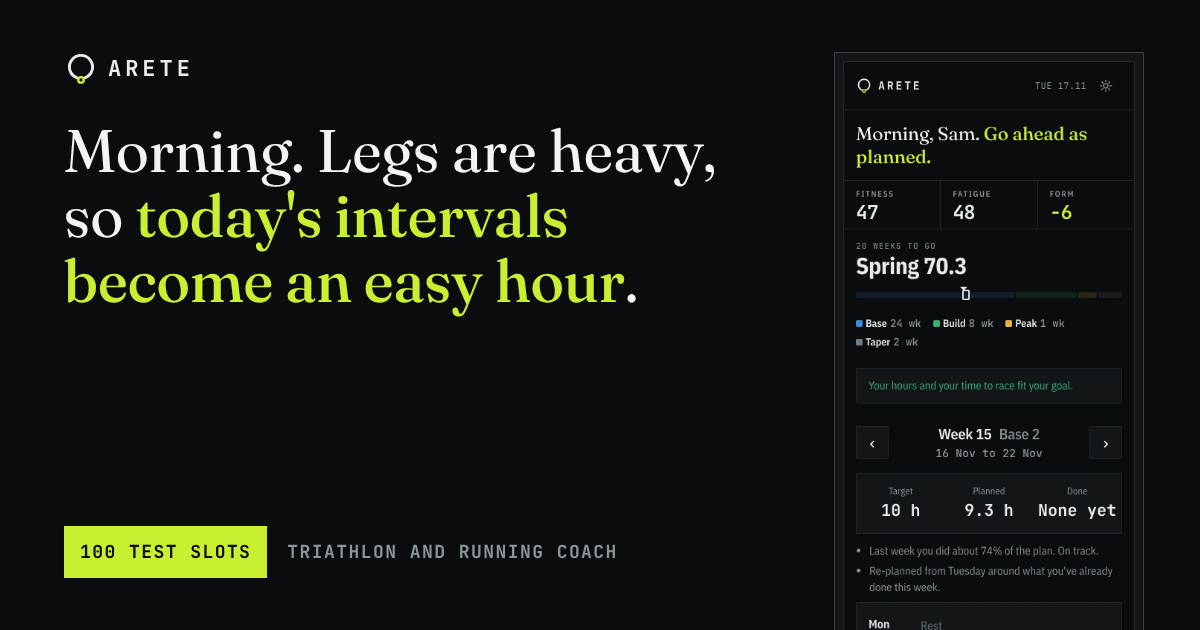
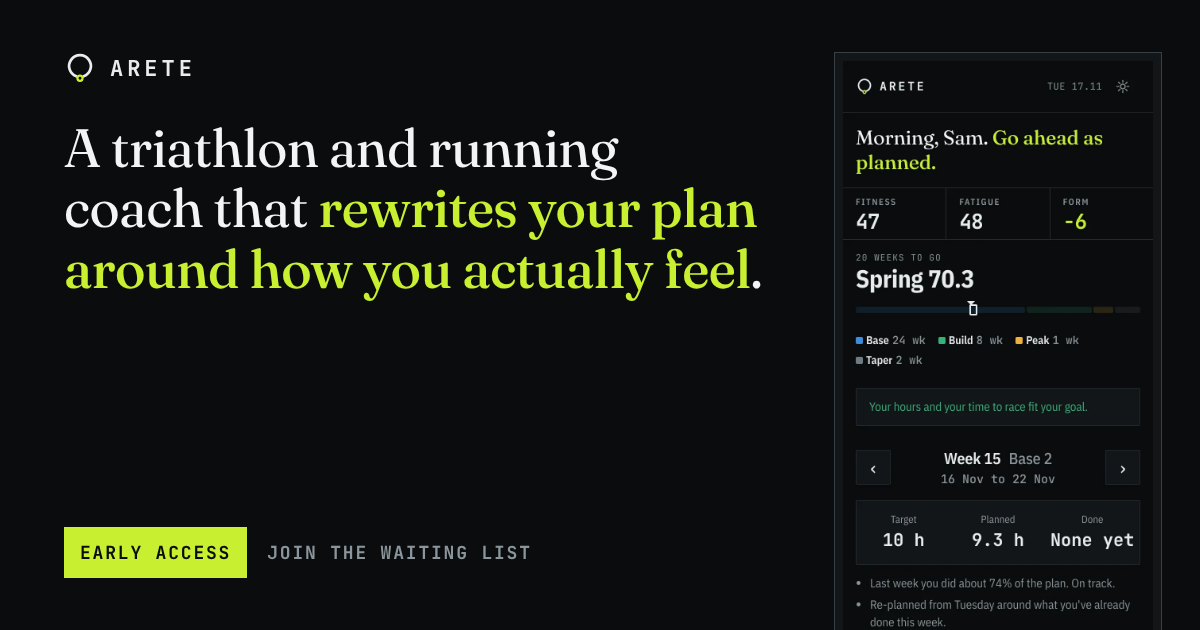
Early access and phased roadmap

diff --git a/index.html b/index.html
@@ -4,7 +4,7 @@
   <meta charset="utf-8" />
   <meta name="viewport" content="width=device-width, initial-scale=1, viewport-fit=cover" />
   <title>Arete · Coming soon</title>
-  <meta name="description" content="Arete is an adaptive coach for triathletes and runners. It plans your season back from race day and adjusts every session to how you slept, how your legs feel and the load you're carrying. 100 test slots." />
+  <meta name="description" content="Arete is an adaptive coach for triathletes and runners. It plans your season back from race day and adjusts every session to how you slept, how your legs feel and the load you're carrying. 100 early access spots." />
   <link rel="canonical" href="https://areteprograms.net/" />
   <meta name="theme-color" content="#0a0c0d" />
 
@@ -12,14 +12,14 @@
   <meta property="og:url" content="https://areteprograms.net/" />
   <meta property="og:site_name" content="Arete" />
   <meta property="og:title" content="Arete: a triathlon and running coach that rewrites your plan around how you actually feel" />
-  <meta property="og:description" content="An adaptive triathlon and running coach, built on the rules of a self coached top 0.1% amateur. 100 test slots. Join the waiting list." />
+  <meta property="og:description" content="An adaptive triathlon and running coach, built on the rules of a self coached top 0.1% amateur. 100 early access spots. Join the waiting list." />
   <meta property="og:image" content="https://areteprograms.net/assets/og.png" />
   <meta property="og:image:width" content="1200" />
   <meta property="og:image:height" content="630" />
-  <meta property="og:image:alt" content="Arete. Morning. Legs are heavy, so today's intervals become an easy hour." />
+  <meta property="og:image:alt" content="Arete: a triathlon and running coach that rewrites your plan around how you actually feel." />
   <meta name="twitter:card" content="summary_large_image" />
   <meta name="twitter:title" content="Arete: a triathlon and running coach that rewrites your plan around how you actually feel" />
-  <meta name="twitter:description" content="An adaptive triathlon and running coach. 100 test slots. Join the waiting list." />
+  <meta name="twitter:description" content="An adaptive triathlon and running coach. 100 early access spots. Join the waiting list." />
   <meta name="twitter:image" content="https://areteprograms.net/assets/og.png" />
 
   <link rel="icon" href="assets/favicon.svg" type="image/svg+xml" />
@@ -66,7 +66,7 @@
 
       <div class="slots" id="slots" aria-live="polite">
         <div class="slots-text">
-          <span class="label">Test slots</span>
+          <span class="label">Early access spots</span>
           <span class="slots-count"><b class="num" id="slots-left">100</b> of <span class="num">100</span> left</span>
         </div>
         <div class="slots-bar" id="slots-bar" aria-hidden="true"></div>
@@ -74,7 +74,7 @@
 
       <div class="cta-row">
         <a class="btn" href="#join">Join the waiting list</a>
-        <span class="cta-note">Free for the first 100 test athletes.</span>
+        <span class="cta-note">The first 100 on the list get in first.</span>
       </div>
     </section>
 
@@ -185,32 +185,22 @@
       <header class="section-head">
         <p class="label">Roadmap</p>
         <h2 id="road-h">What happens next.</h2>
-        <p class="section-lede">Counted in days from today. Everyone on the waiting list hears about each step first.</p>
+        <p class="section-lede">Three phases. Everyone on the waiting list hears about each one first.</p>
       </header>
 
-      <div class="track" aria-hidden="true">
-        <div class="track-bar"><span class="track-now" id="track-now"></span></div>
-        <div class="track-marks" id="track-marks"></div>
-      </div>
-
-      <ol class="milestones" id="milestones">
-        <li data-day="30">
-          <p class="m-when"><span class="num m-days">D−30</span><span class="m-date"></span></p>
-          <h3>Test athletes</h3>
-          <p>The first 100 people on the waiting list get an invite and full access, free, while we test and tune the coach.</p>
+      <ol class="milestones phases">
+        <li class="is-next">
+          <p class="m-when"><span class="num m-days">Phase 1</span><span class="m-date">Up next</span></p>
+          <h3>Early access</h3>
+          <p>Arete opens to the waiting list, in the order people joined. You get an invite by email and start training with the coach before anyone else.</p>
         </li>
-        <li data-day="90">
-          <p class="m-when"><span class="num m-days">D−90</span><span class="m-date"></span></p>
-          <h3>Early adopters</h3>
-          <p>Paid early access opens to everyone on the waiting list, before the public.</p>
-        </li>
-        <li data-day="120">
-          <p class="m-when"><span class="num m-days">D−120</span><span class="m-date"></span></p>
+        <li>
+          <p class="m-when"><span class="num m-days">Phase 2</span><span class="m-date">Later</span></p>
           <h3>Mobile app</h3>
           <p>Arete on iPhone and Android, with the same coach and your same plan.</p>
         </li>
-        <li data-day="150">
-          <p class="m-when"><span class="num m-days">D−150</span><span class="m-date"></span></p>
+        <li>
+          <p class="m-when"><span class="num m-days">Phase 3</span><span class="m-date">Later</span></p>
           <h3>Open to everyone</h3>
           <p>Anyone can sign up.</p>
         </li>
@@ -244,9 +234,9 @@
     <section class="join wrap" id="join" aria-labelledby="join-h" tabindex="-1">
       <div class="join-copy">
         <p class="label">Waiting list</p>
-        <h2 id="join-h">Claim a test slot.</h2>
-        <p>100 slots, first come first served. If they're gone you stay on the list, next in line when a slot frees up and first to hear about early access.</p>
-        <p class="muted">You get one email confirming your place, then only news about the test and the launch. Every email has a link that takes you off the list and deletes your details.</p>
+        <h2 id="join-h">Get early access.</h2>
+        <p>100 early access spots, first come first served. If they're gone you stay on the list, next in line when a spot opens up.</p>
+        <p class="muted">You get one email confirming your place, then only news about early access and the launch. Every email has a link that takes you off the list and deletes your details.</p>
       </div>
 
       <form class="join-form" id="join-form" novalidate>
@@ -280,7 +270,7 @@
         </div>
         <label class="consent" for="f-consent">
           <input id="f-consent" name="consent" type="checkbox" value="yes" required />
-          <span>Email me about the test and the launch. I've read the <a href="/privacy">privacy policy</a>.</span>
+          <span>Email me about early access and the launch. I've read the <a href="/privacy">privacy policy</a>.</span>
         </label>
         <p class="form-error" id="form-error" role="alert" hidden></p>
         <button type="submit" class="btn btn-full" id="join-submit">Join the waiting list</button>

diff --git a/main.js b/main.js
@@ -3,7 +3,6 @@
 // Settings you may change:
 //   VIDEO_ID       the YouTube id of the 5 minute video (the part after
 //                  "watch?v=" or "youtu.be/"). Empty shows "coming soon".
-//   ROADMAP_START  the day the roadmap counts from (YYYY-MM-DD).
 //
 // Sign ups go to this site's own backend (netlify/functions/waitlist.mjs),
 // which keeps them in Netlify Blobs. Nothing here talks to the Arete app.
@@ -13,7 +12,6 @@
 // up came from.
 
 const VIDEO_ID = ''
-const ROADMAP_START = '2026-11-17'
 const API = '/api'
 const SLOTS = 100
 
@@ -38,7 +36,7 @@ $('theme-toggle').addEventListener('click', () => {
 })
 setTheme(document.documentElement.dataset.theme === 'light' ? 'light' : 'dark')
 
-// --- Test slots left ----------------------------------------------------------
+// --- Early access spots left ----------------------------------------------------------
 
 function drawSlots(taken) {
   const bar = $('slots-bar')
@@ -58,37 +56,6 @@ fetch(`${API}/waitlist/status`)
     if (s) drawSlots(Math.min(SLOTS, s.taken))
   })
   .catch(() => {})
-
-// --- Roadmap ------------------------------------------------------------------
-
-const DAY = 86400000
-const start = new Date(`${ROADMAP_START}T00:00:00`)
-const today = new Date()
-today.setHours(0, 0, 0, 0)
-const elapsed = Math.max(0, Math.round((today - start) / DAY))
-const SPAN = 150
-
-function fmt(d) {
-  return d.toLocaleDateString('en-GB', { day: 'numeric', month: 'short', year: 'numeric' })
-}
-
-document.querySelectorAll('#milestones li').forEach((li) => {
-  const day = Number(li.dataset.day)
-  const when = new Date(start.getTime() + day * DAY)
-  const left = day - elapsed
-  li.querySelector('.m-days').textContent = left > 1 ? `In ${left} days` : left === 1 ? 'Tomorrow' : left === 0 ? 'Today' : 'Open now'
-  li.querySelector('.m-date').textContent = fmt(when)
-})
-
-$('track-now').style.width = `${Math.min(100, (elapsed / SPAN) * 100)}%`
-const marks = [[0, 'Today'], [30, 'Test'], [90, 'Early access'], [120, 'App'], [150, 'Public']]
-marks.forEach(([d, name], i) => {
-  const s = document.createElement('span')
-  s.style.left = `${(d / SPAN) * 100}%`
-  s.textContent = i === 0 ? name : `D${d}`
-  s.title = name
-  $('track-marks').appendChild(s)
-})
 
 // --- Video ----------------------------------------------------------------------
 
@@ -142,7 +109,7 @@ form.addEventListener('submit', async (e) => {
   const email = $('f-email')
   if (!name.value.trim()) return showError('Add your name.', name)
   if (!/^[^\s@]+@[^\s@]+\.[^\s@]+$/.test(email.value.trim())) return showError("That doesn't look like an email address.", email)
-  if (!$('f-consent').checked) return showError('Tick the box so I can email you about the test.', $('f-consent'))
+  if (!$('f-consent').checked) return showError('Tick the box so I can email you about early access.', $('f-consent'))
 
   const data = new FormData(form)
   const button = $('join-submit')
@@ -180,11 +147,11 @@ function joined(res, first) {
   const note = $('joined-note')
   const who = first ? `${first}, you're` : "You're"
   if (res.has_slot) {
-    line.innerHTML = `${res.already ? 'Already on the list. ' : ''}${who} number <mark>${res.position} of ${res.slots}</mark>. That's a test slot.`
-    note.textContent = "Check your inbox for the confirmation. When testing opens you'll get an invite code by email."
+    line.innerHTML = `${res.already ? 'Already on the list. ' : ''}${who} number <mark>${res.position} of ${res.slots}</mark>. That's an early access spot.`
+    note.textContent = "Check your inbox for the confirmation. When early access opens you'll get an invite by email."
   } else {
     line.innerHTML = `${res.already ? 'Already on the list. ' : ''}${who} number <mark>${res.position}</mark> on the list.`
-    note.textContent = `The ${res.slots} test slots are taken, so you're next in line if one frees up, and first to hear about early access. Check your inbox for the confirmation.`
+    note.textContent = `The ${res.slots} early access spots are taken, so you're next in line when one opens up. Check your inbox for the confirmation.`
   }
   form.hidden = true
   $('joined').hidden = false

diff --git a/styles.css b/styles.css
@@ -706,70 +706,6 @@ body::before {
   padding-block: 80px 72px;
 }
 
-.track {
-  position: relative;
-  margin: 0 0 28px;
-}
-
-.track-bar {
-  position: relative;
-  height: 10px;
-  background: repeating-linear-gradient(90deg, var(--line) 0 calc(100% / 30 - 2px), transparent calc(100% / 30 - 2px) calc(100% / 30));
-}
-
-.track-now {
-  position: absolute;
-  left: 0;
-  top: 0;
-  bottom: 0;
-  width: 0;
-  background: var(--rule);
-}
-
-.track-marks {
-  position: relative;
-  height: 26px;
-  font-family: var(--mono);
-  font-size: 11px;
-  color: var(--muted);
-}
-
-.track-marks span {
-  position: absolute;
-  top: 0;
-  transform: translateX(-50%);
-  padding-top: 8px;
-  white-space: nowrap;
-}
-
-.track-marks span::before {
-  content: '';
-  position: absolute;
-  left: 50%;
-  top: -14px;
-  width: 2px;
-  height: 18px;
-  background: var(--text);
-}
-
-.track-marks span:first-child {
-  transform: none;
-}
-
-.track-marks span:first-child::before {
-  left: 0;
-  background: var(--rule);
-}
-
-.track-marks span:last-child {
-  transform: translateX(-100%);
-}
-
-.track-marks span:last-child::before {
-  left: auto;
-  right: 0;
-}
-
 .milestones {
   display: grid;
   grid-template-columns: minmax(0, 1fr);
@@ -781,15 +717,9 @@ body::before {
   border: 1px solid var(--line);
 }
 
-@media (min-width: 640px) {
+@media (min-width: 720px) {
   .milestones {
-    grid-template-columns: repeat(2, minmax(0, 1fr));
-  }
-}
-
-@media (min-width: 1000px) {
-  .milestones {
-    grid-template-columns: repeat(4, minmax(0, 1fr));
+    grid-template-columns: repeat(3, minmax(0, 1fr));
   }
 }
 
@@ -801,8 +731,12 @@ body::before {
   background: var(--surface);
 }
 
-.milestones li:first-child {
+.milestones li.is-next {
   box-shadow: inset 0 3px 0 var(--rule);
+}
+
+.milestones li:not(.is-next) .m-days {
+  color: var(--muted);
 }
 
 .m-when {

diff --git a/privacy.html b/privacy.html
@@ -36,7 +36,7 @@
     </ul>
 
     <h2>What we use it for</h2>
-    <p>To give out the 100 test slots in the order people joined, and to email you about the test and the launch. Nothing else. We don't sell it, share it or use it for advertising. The basis is your consent, given with the tick box on the form.</p>
+    <p>To give out the 100 early access spots in the order people joined, and to email you about early access and the launch. Nothing else. We don't sell it, share it or use it for advertising. The basis is your consent, given with the tick box on the form.</p>
 
     <h2>Who handles it</h2>
     <p><strong>Netlify</strong> hosts this page and stores the waiting list, on servers in the United States. <strong>Resend</strong> sends the email confirming your place; it sees your name, your email address and that email. <strong>YouTube</strong> plays the video, but only once you press play; until then nothing is loaded from YouTube.</p>

diff --git a/admin.html b/admin.html
@@ -68,7 +68,7 @@
       const by = {}
       rows.forEach((r) => { const k = r.source || 'direct'; by[k] = (by[k] || 0) + 1 })
       const from = Object.entries(by).sort((a, b) => b[1] - a[1]).map(([k, n]) => k + ' ' + n).join(', ')
-      $('a-summary').textContent = Math.min(rows.length, SLOTS) + ' of ' + SLOTS + ' test slots taken' +
+      $('a-summary').textContent = Math.min(rows.length, SLOTS) + ' of ' + SLOTS + ' early access spots taken' +
         (rows.length > SLOTS ? ', ' + (rows.length - SLOTS) + ' next in line' : '') + (from ? '. From: ' + from + '.' : '.')
       const body = $('a-rows')
       body.textContent = ''

diff --git a/CLAUDE.md b/CLAUDE.md
@@ -8,10 +8,10 @@ server or database with it. Never change the app from here.
 ## How it's built
 
 - `index.html`, `styles.css`, `main.js`: the page. Plain files, no build.
-  Settings at the top of `main.js`: `VIDEO_ID`, `ROADMAP_START`.
+  Setting at the top of `main.js`: `VIDEO_ID`.
 - `netlify/functions/waitlist.mjs`: the backend (`/api/waitlist`), a
   Netlify Function. Sign ups are kept in Netlify Blobs, store "waitlist".
-- `netlify/lib/waitlist.mjs`: the waiting list rules (100 test slots, sign
+- `netlify/lib/waitlist.mjs`: the waiting list rules (100 early access spots, sign
   up order, one place per email, the leave link, the welcome email).
 - `admin.html`: the list, behind `ADMIN_PASSWORD`.
 - `privacy.html`: the privacy policy for the waiting list.

diff --git a/README.md b/README.md
@@ -10,7 +10,7 @@ the Arete app: own repository, own Netlify site, own storage.
   roadmap counts from).
 - `netlify/functions/waitlist.mjs` the backend, a Netlify Function at
   `/api/waitlist`. Sign ups are kept in Netlify Blobs.
-- `netlify/lib/waitlist.mjs` the waiting list rules: 100 test slots in sign
+- `netlify/lib/waitlist.mjs` the waiting list rules: 100 early access spots in sign
   up order, one place per email, a welcome email with a leave link.
 - `admin.html` (at `/admin`) the list and a CSV download, behind a password.
 - `privacy.html` the privacy policy for the waiting list.
